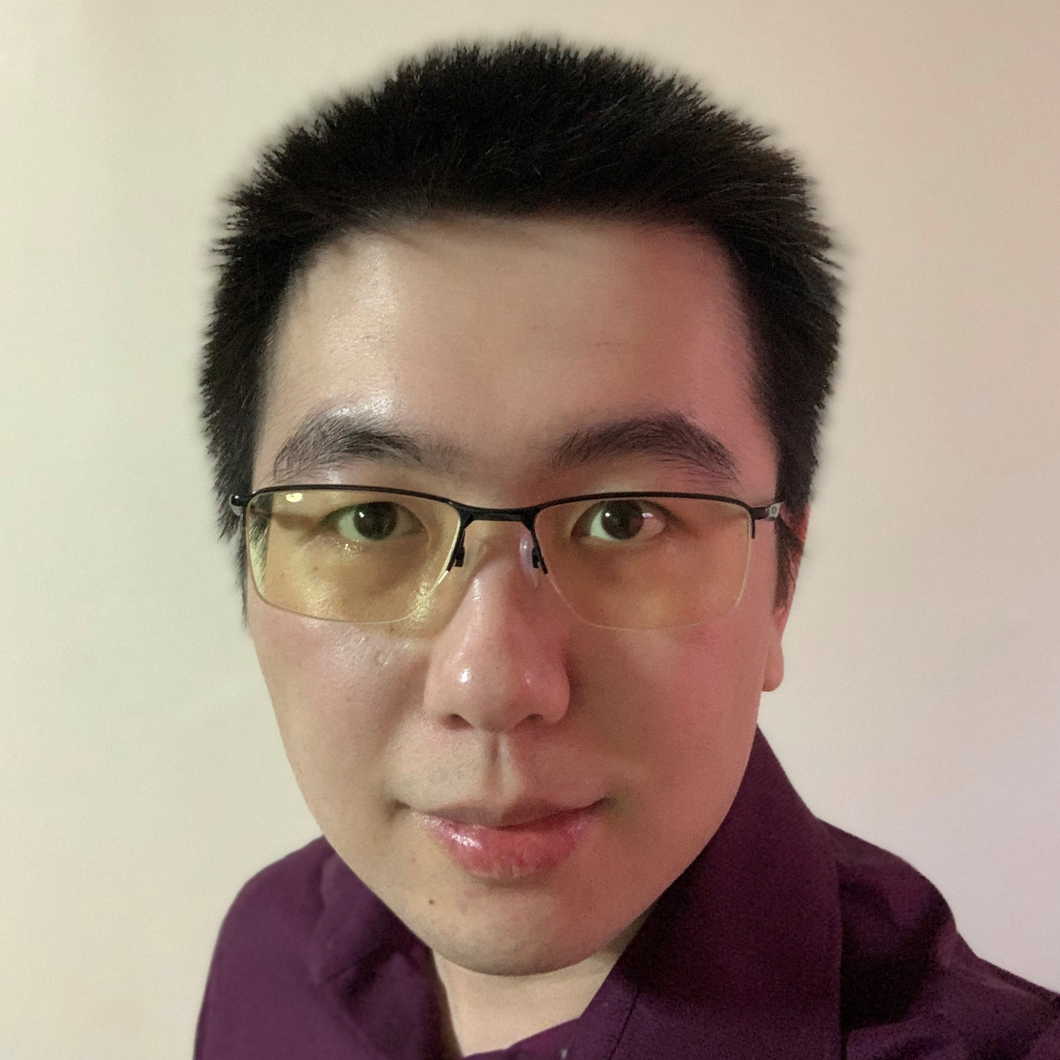
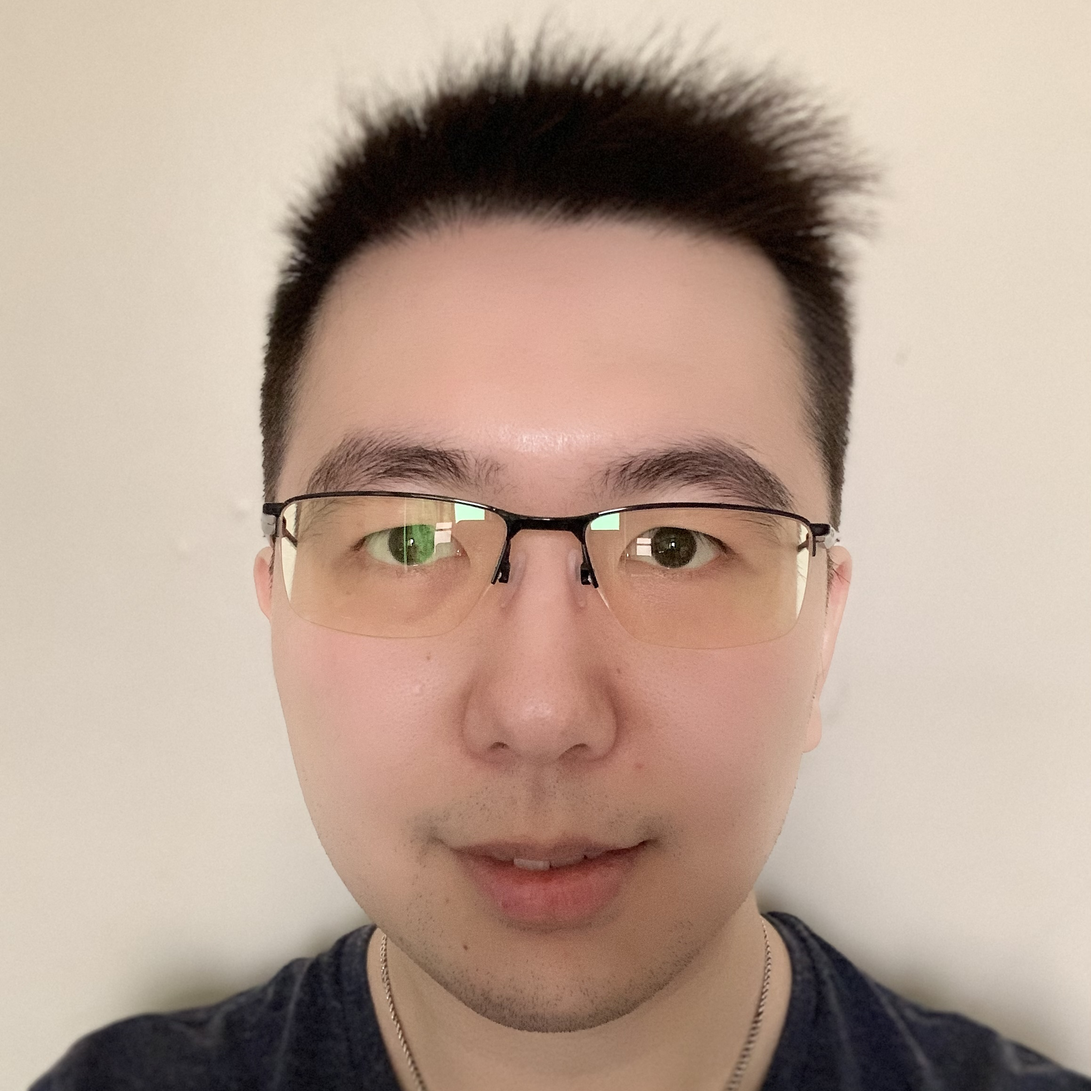
update photo

diff --git a/css/styles.css b/css/styles.css
@@ -1,5 +1,5 @@
 #profile-image {
-  max-width: 80%;
+  max-width: 100%;
 }
 
 .dev-icons {
